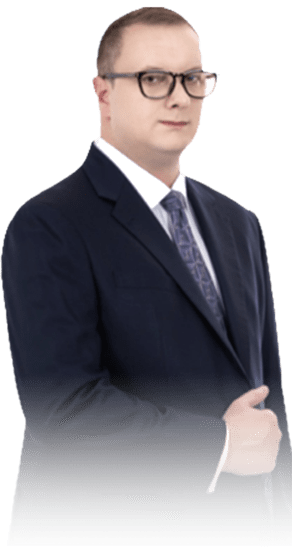
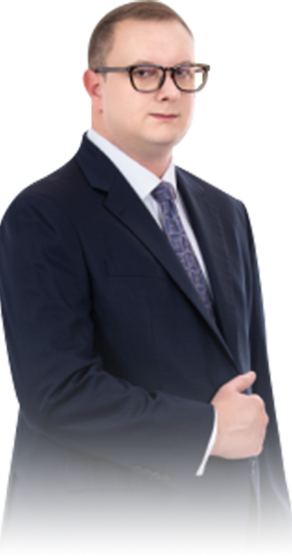
replace image

diff --git a/src/views/company-introduction/company-introduction.vue b/src/views/company-introduction/company-introduction.vue
@@ -1,7 +1,7 @@
 <!--
  * @Date: 2019-08-31 13:29:44
  * @LastEditors: fashandian
- * @LastEditTime: 2019-09-01 23:05:40
+ * @LastEditTime: 2019-09-03 20:58:38
 -->
 <template>
     <div class="company-introduction" :class="{'en-screen': $i18n.locale === 'en'}">
@@ -43,7 +43,7 @@
                 <li v-for="(item, index) in $t('companyIntroduction.teamMembers.members')" :key="index">
                     <img v-if="index === 0" src="../../static/img/company-introduction/img_WillJohnson.png"
                     alt="公司简介"
-                    srcset="../../static/img/company-introduction/img_WillJohnson@2x.png 2x">
+                    >
                     <img v-if="index === 1" src="../../static/img/company-introduction/img_Julian.png"
                     alt="公司简介"
                     srcset="../../static/img/company-introduction/img_Julian@2x.png 2x">
@@ -385,6 +385,7 @@ export default {
             > ul {
                 li {
                     width: 100%;
+                    height: 820px;
                 }
             }
         }
@@ -446,6 +447,13 @@ export default {
                 font-size: 50px;
             }
         }
+        .introduction .introduction-right .location p,
+        .core-team > ul li p,
+        .team-members .member-description-wrap > p,
+        .enterprise-strength > ul li p {
+            font-size: 28px;
+            line-height: 45px;
+        }
     }
     @media only screen and (max-width: 750px) {
         .title {
@@ -482,7 +490,7 @@ export default {
         }
         .en-screen {
             .team-members > ul > li {
-                height: 1000px !important;
+                height: 1040px !important;
             }
         }
     }
@@ -504,8 +512,8 @@ export default {
             }
             .team-members {
                 > ul {
-                    li {
-                        height: 780px;
+                    li:first-child, li:last-child {
+                        height: 840px;
                     }
                 }
                 .member-description-wrap {
@@ -546,11 +554,6 @@ export default {
             }
         }
         .en-screen {
-            .team-members > ul > li {
-                &:first-child {
-                    height: 880px;
-                }
-            }
             .enterprise-strength > h1 {
                 font-size: 50px;
             }
